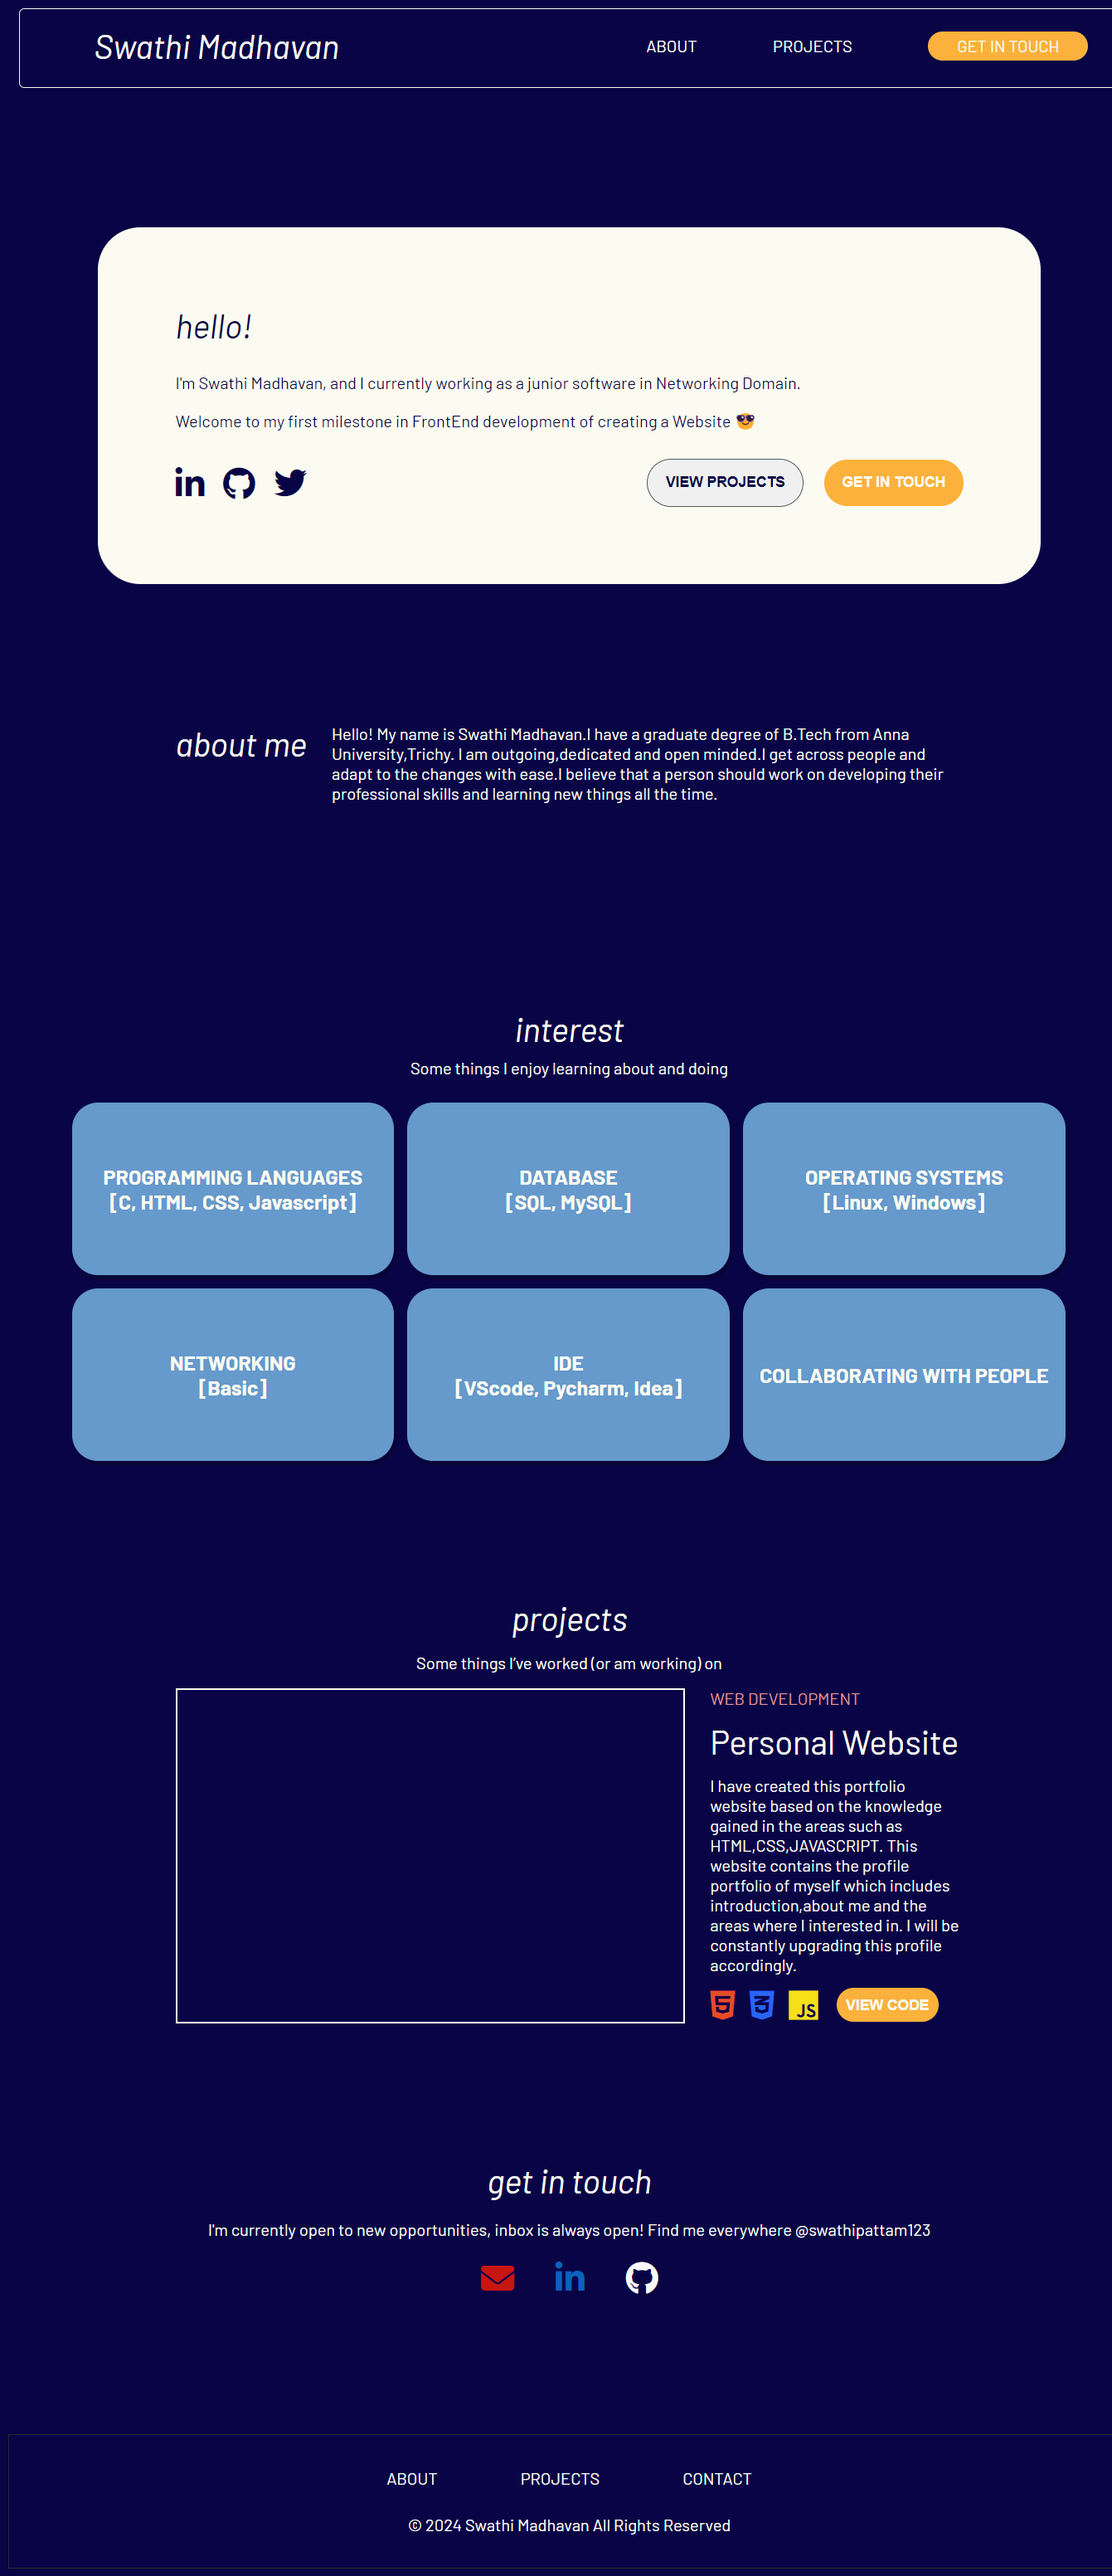
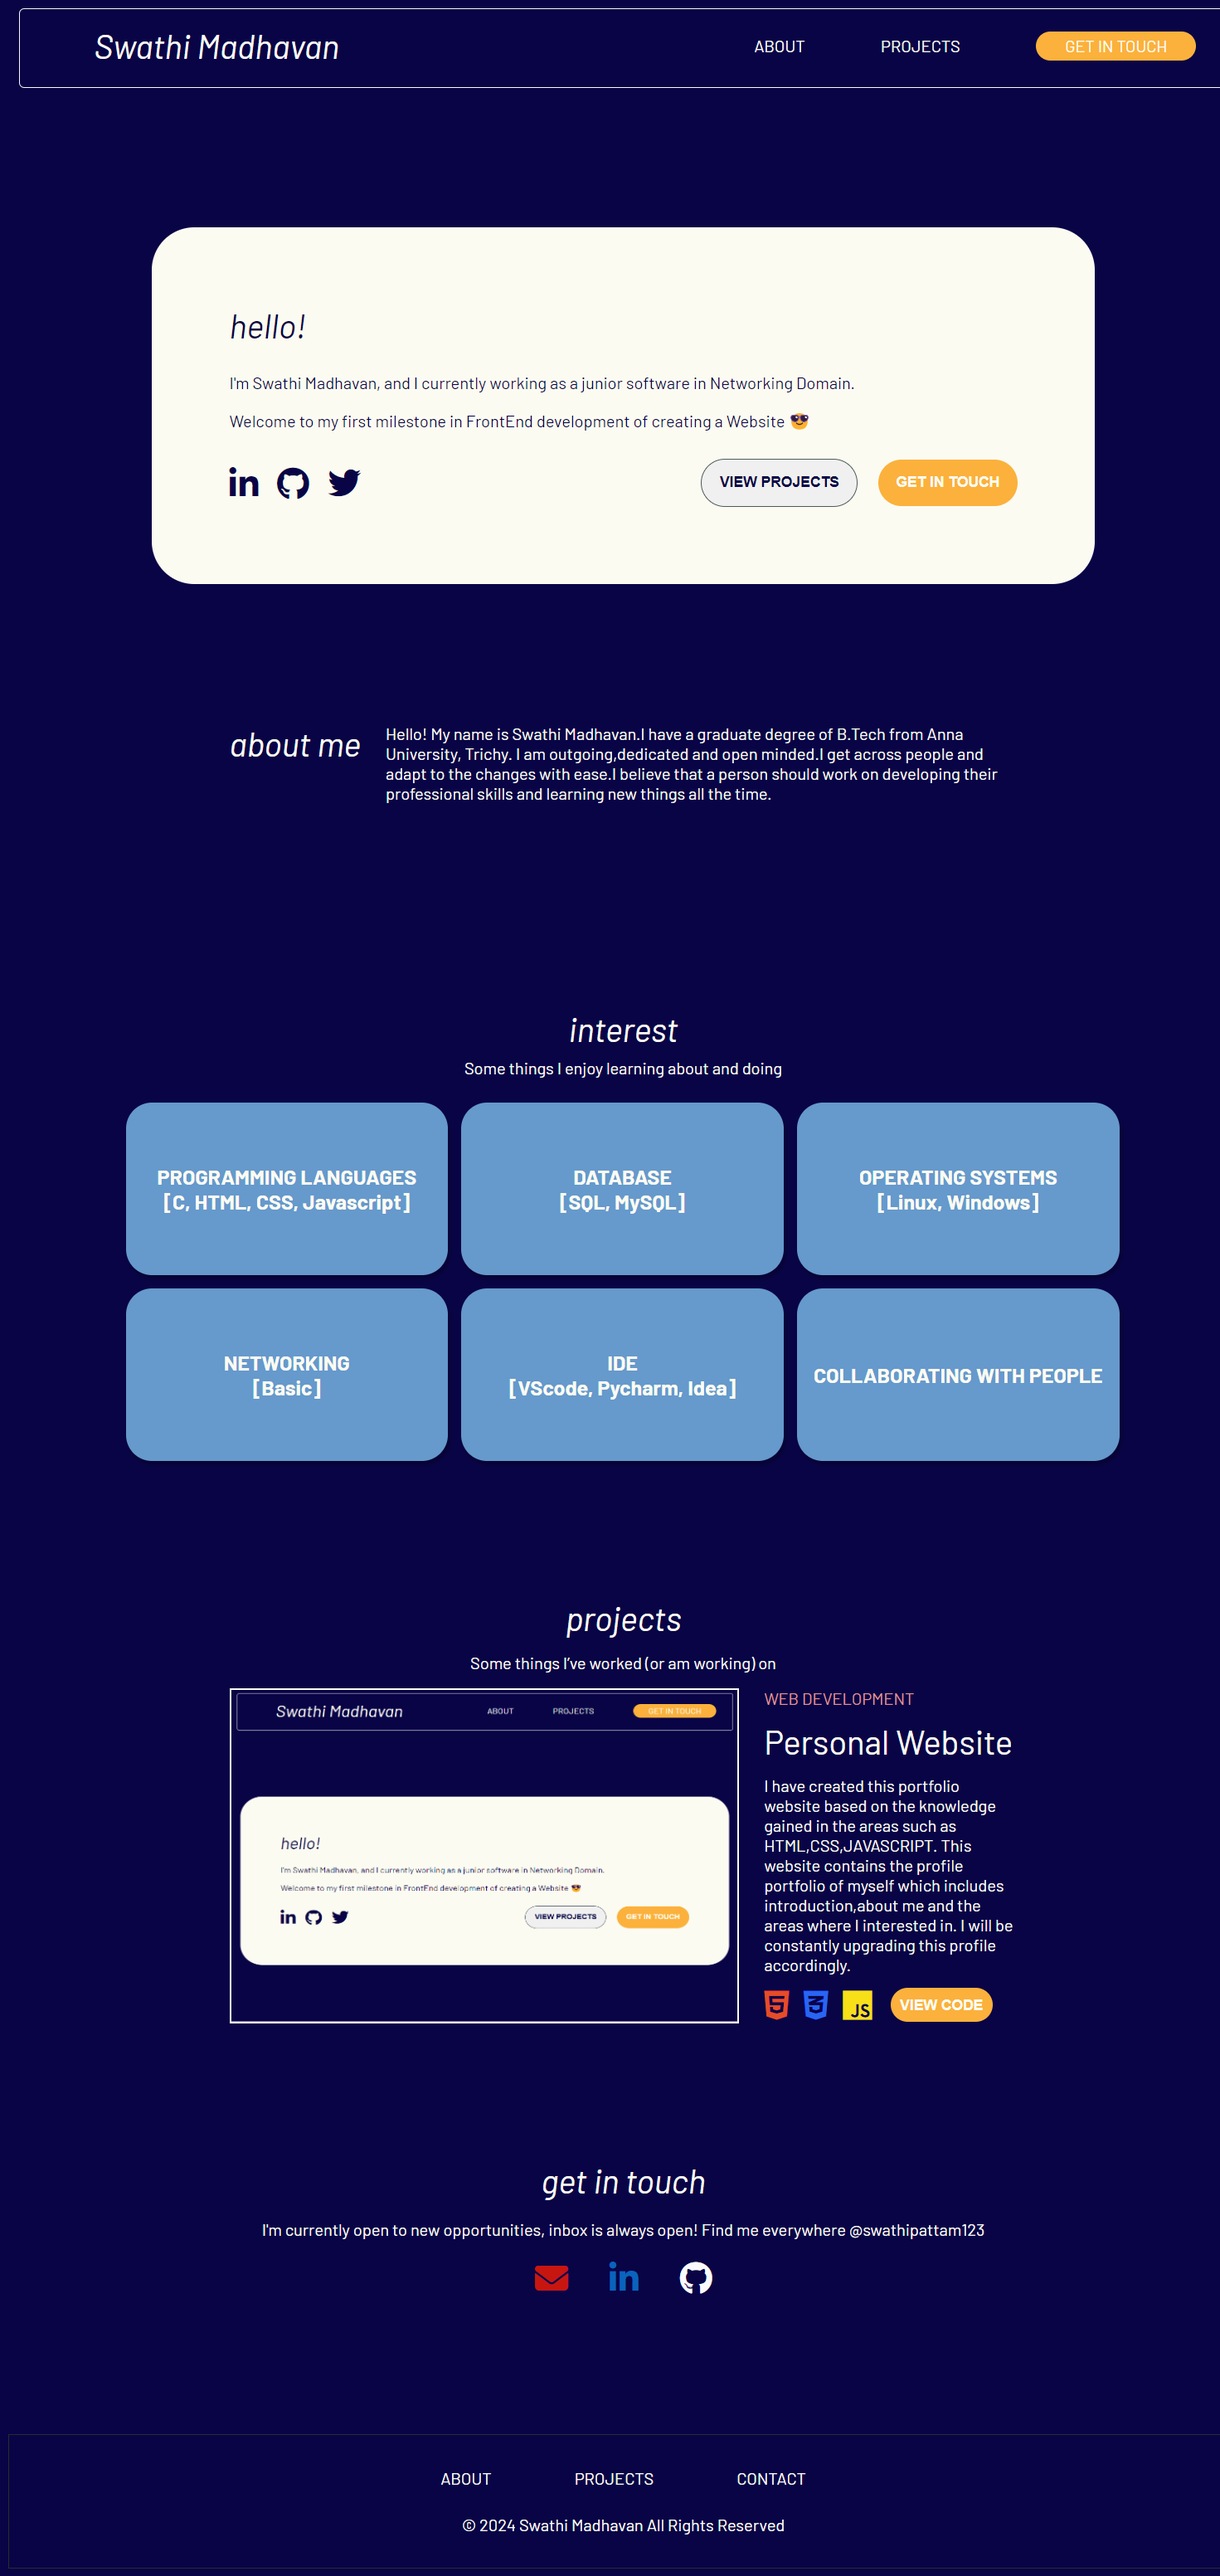
Updated readme file

diff --git a/README.md b/README.md
@@ -1,2 +1,11 @@
-# portfolio-website
-I have implemented a portfolio website using HTML and CSS
+# Portfolio website
+I have implemented a portfolio website using HTML, CSS and JavaScript
+
+## Learnt skills
+1. HTML 
+2. CSS
+3. JavaScript
+
+
+## Webpreview 
+<img src="./images/full-website-preview.png">
